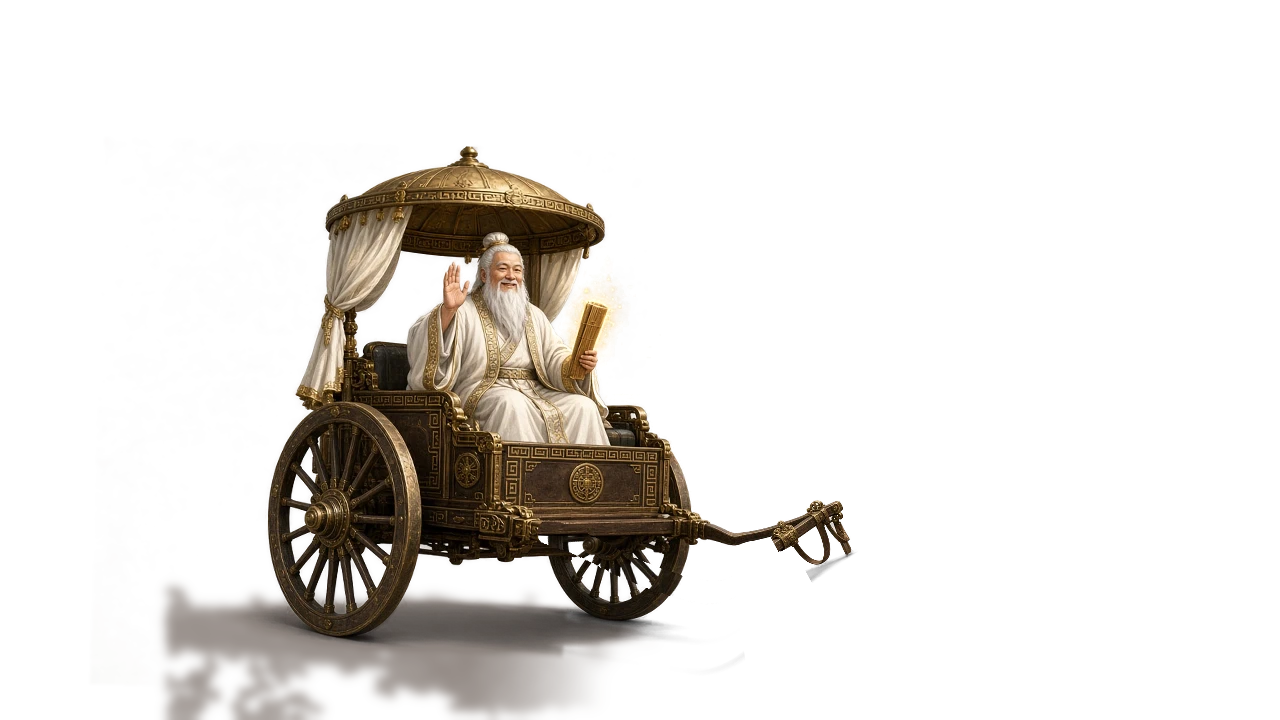
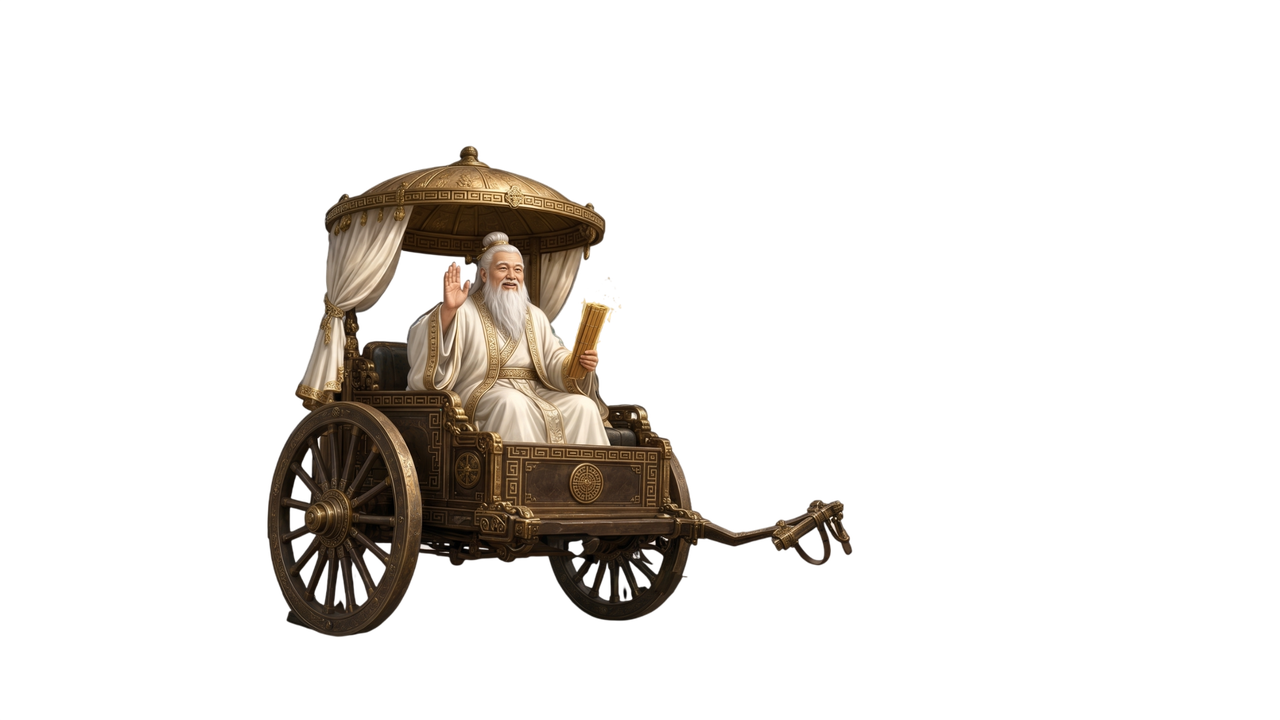
v1.3.25: pause edge + enter fade + drawer paper495 + lian/kong/lin char

Changed region(s): [[0.125, 0.2139, 0.6875, 1.0]]

diff --git a/src/index.css b/src/index.css
@@ -319,15 +319,24 @@
         }
         .shake-active { animation: global-shake 0.3s cubic-bezier(.36,.07,.19,.97) both; }
 
-        /* 暫停頁與入陣小視窗共用的全頁模糊半透明遮罩 */
+        /* 暫停頁與入陣小視窗共用的全頁遮罩
+         * pause-overlay-edge-r1：原 rgba(10,10,10,0.95)+backdrop-filter 在 #root letterbox scale／
+         * 次像素緣會透出底層（戰鬥底區 --app-bg 宣紙色／場景），左右成 ≈1px 微線。
+         * 改實色 #0a0a0a，並 inset:-2px 蓋過 fringe（#root overflow:hidden 裁齊外緣）；
+         * 入陣窗同因同修（Tailwind inset-0 以 !important 蓋過）。未動 Boss／一源／HERO。 */
         .pause-overlay, .enter-modal-overlay {
-            background: rgba(10, 10, 10, 0.95); /* 0.75 → 0.95：底下的題目／文字幾乎看不清 */
+            background: #0a0a0a;
             -webkit-backdrop-filter: blur(24px); /* 先寫 -webkit-：寫在後面時建置只保留它，Chrome 模糊失效 */
             backdrop-filter: blur(24px);
+            inset: -2px !important; /* 蓋 scale／backdrop 左右微縫；勿改戰鬥幾何常數 */
+        }
+        /* 遮罩開啟時 #root 深墊，letterbox 外緣 AA 對黑邊勿混出宣紙亮縫 */
+        #root:has(.pause-overlay),
+        #root:has(.enter-modal-overlay) {
+            background-color: #0a0a0a;
         }
         .pause-overlay {
             position: absolute;
-            inset: 0;
             z-index: 99999;
             display: flex;
             flex-direction: column;
@@ -930,11 +939,7 @@
             /* 自中心外擴：p=1→inset 50%（全遮）；p=0→inset 0（全露）；禁改 width／scaleX */
             clip-path: inset(0 calc(var(--scroll-p, 1) * 50%) 0 calc(var(--scroll-p, 1) * 50%));
         }
-        /* :active 合上閃現：軸併攏＋畫心全遮 */
-        .home-cta:active .home-cta-scroll { --scroll-p: 1; }
-        .home-cta:active .home-cta-axle-left { transform: translateX(532.954545%); }
-        .home-cta:active .home-cta-axle-right { transform: translateX(-532.954545%); }
-        .home-cta:active .home-cta-paper { clip-path: inset(0 50% 0 50%); }
+        /* :active 勿覆寫 --scroll-p／軸／clip／label（點入陣開窗時展開態會被強制合上閃跳） */
         .home-cta-label {
             /* r8/r9: 「入陣」水平＋光學垂直置中（cy_up≈6；無紙底 backing） */
             position: absolute; inset: 0; z-index: 3;
@@ -951,7 +956,7 @@
             opacity: calc(1 - var(--scroll-p, 1));
             transition: none; /* 跟 --scroll-p 同鐘，無另跑 opacity 緩動 */
         }
-        .home-cta:active .home-cta-label { opacity: 0; } /* 合上態無紙面字 */
+        /* 保留輕微按下回饋；勿改卷軸幾何 */
         .home-cta:hover { filter: brightness(1.06); }
         .home-cta:active { transform: scale(.98); }
         .home-cta:focus-visible { outline: 3px solid var(--paper); outline-offset: 2px; filter: brightness(1.1); border-radius: 8px; }
@@ -1036,8 +1041,8 @@
         .home-dungeon {
             --bar-h: 52px;
             --drawer-min-rows: 4;
-            /* align-chrome-greenbar：抽屜頂（peek 分界）＝戰鬥綠線頂 Y=495；peek-h＝100%−(495−zone) */
-            --peek-h: calc(100% - (495px - var(--hud-vnext-zone-h)));
+            /* home-drawer-top-green-r1：可見紙緣＝綠線495；rect鎖493.5（frost頂→不透明紙≈+1.5）；禁信宣紙左右亮帶≈450 */
+            --peek-h: calc(100% - (493.5px - var(--hud-vnext-zone-h)));
             --scroll-p: 1; /* 進頁默認 open＝卷合上 */
             position: relative; height: 100%; overflow: hidden;
             /* ≈smoothstep；時長 ≡ scroll-unroll-ref-r2 1.60s */
@@ -1050,11 +1055,11 @@
         /* 可選 N=6：data-min-rows="6" → bar+22+(H−bar−56)/2（舊最低） */
         .home-dungeon[data-min-rows="6"] {
             --drawer-min-rows: 6;
-            --peek-h: calc(100% - (495px - var(--hud-vnext-zone-h)));
+            --peek-h: calc(100% - (493.5px - var(--hud-vnext-zone-h)));
         }
         .home-dungeon[data-min-rows="4"] {
             --drawer-min-rows: 4;
-            --peek-h: calc(100% - (495px - var(--hud-vnext-zone-h)));
+            --peek-h: calc(100% - (493.5px - var(--hud-vnext-zone-h)));
         }
         /* 英雄區下緣＝抽屜上緣（peek／open 皆貼 peek 線；不再有 closed＝只露 bar） */
         .home-hero-slot { position: absolute; left: 0; right: 0; top: 0; bottom: var(--peek-h); transition: bottom .48s cubic-bezier(.22,1,.36,1); }
@@ -1249,27 +1254,34 @@ html[data-cinematic="1"] .btl-saber,
 html[data-cinematic="1"] .btl-saber-float,
 html[data-cinematic="1"] .btl-saber-idle { animation-play-state: paused !important; }
 /* ── 入陣無縫轉場（src/lib/enterTransition.ts）──
-   戰鬥頁已在主頁底下掛好（背景／人物與主頁預覽同一位置），主頁只把 UI 滑走：
-   頂欄上滑出畫面、抽屜與底部導覽下滑出畫面（ease-in），篇名列／入陣鈕隨抽屜淡出下移；
+   戰鬥頁已在主頁底下掛好（背景／人物與主頁預覽同一位置）。兩段時序：
+   ① 先淡出主頁場景底（山水／gyro／hero-bg／羽化／火星）露出底下戰鬥場景；
+   ② 完成後才錯開滑走頂欄／篇名／入陣／抽屜／底欄 HUD。
    主頁底色改透明，被滑開的區域直接露出下面的戰鬥畫面（不閃白／米色）。 */
 .enter-busy { pointer-events: none !important; }
 .enter-exit, .enter-exit > *, .enter-exit .home-dungeon, .enter-exit main, .enter-exit .home-hero { background: transparent !important; background-color: transparent !important; }
-/* 錯開滑出（總長 --ee-dur＝920ms）：頂欄上滑 → 篇名列 → 入陣 → 抽屜 → 底部導覽下滑，每組延遲 --ee-step、各自長 --ee-item */
+/* 段① 場景淡出（--ee-scene；禁一進 enter-exit 就 visibility:hidden） */
 .enter-exit { --ee-ease: cubic-bezier(.55, 0, .8, .25); }
-.enter-exit .home-bar-top { animation: eeUp var(--ee-item, 520ms) var(--ee-ease) 0ms both; }
-.enter-exit .home-hero > .relative.z-10 > :not(.home-cta) { animation: eeFadeDown var(--ee-item, 520ms) var(--ee-ease) var(--ee-step, 100ms) both; }
-.enter-exit .home-hero > .relative.z-10 > .home-cta { animation: eeFadeDown var(--ee-item, 520ms) var(--ee-ease) calc(2 * var(--ee-step, 100ms)) both; }
-.enter-exit :is(.home-drawer, .home-drawer-chev) { animation: eeDown var(--ee-item, 520ms) var(--ee-ease) calc(3 * var(--ee-step, 100ms)) both; }
-.enter-exit .home-bar-bottom { animation: eeDown var(--ee-item, 520ms) var(--ee-ease) calc(4 * var(--ee-step, 100ms)) both; }
-.enter-exit :is(.home-scene-feather, .home-embers) { animation: eeFade var(--ee-dur, 920ms) ease-in forwards; }
-/* 主頁場景（背景／人物／飛劍）在滑出開始時（仍在選擇小視窗的模糊遮罩底下）換成下面同位置、同動畫進度的戰鬥場景 */
-:is(.enter-exit, .enter-exit-reduced) .home-hero :is(.home-gyro-layer, .home-hero-bg) { visibility: hidden; }
+.enter-exit .home-hero :is(.home-shanshui, .home-gyro-layer, .home-hero-bg),
+.enter-exit :is(.home-scene-feather, .home-embers) {
+  animation: eeFade var(--ee-scene, 400ms) ease-in both;
+}
+/* 段② HUD 錯開滑出：delay＝場景淡出時長；總 HUD 窗＝--ee-dur（920ms） */
+.enter-exit .home-bar-top { animation: eeUp var(--ee-item, 520ms) var(--ee-ease) var(--ee-scene, 400ms) both; }
+.enter-exit .home-hero > .relative.z-10 > :not(.home-cta) { animation: eeFadeDown var(--ee-item, 520ms) var(--ee-ease) calc(var(--ee-scene, 400ms) + var(--ee-step, 100ms)) both; }
+.enter-exit .home-hero > .relative.z-10 > .home-cta { animation: eeFadeDown var(--ee-item, 520ms) var(--ee-ease) calc(var(--ee-scene, 400ms) + 2 * var(--ee-step, 100ms)) both; }
+.enter-exit :is(.home-drawer, .home-drawer-chev) { animation: eeDown var(--ee-item, 520ms) var(--ee-ease) calc(var(--ee-scene, 400ms) + 3 * var(--ee-step, 100ms)) both; }
+.enter-exit .home-bar-bottom { animation: eeDown var(--ee-item, 520ms) var(--ee-ease) calc(var(--ee-scene, 400ms) + 4 * var(--ee-step, 100ms)) both; }
 @keyframes eeUp { to { translate: 0 calc(-100% - 8px); } }
 @keyframes eeDown { to { translate: 0 calc(100% + 40px); } }
 @keyframes eeFadeDown { to { translate: 0 56px; opacity: 0; } }
 @keyframes eeFade { to { opacity: 0; } }
-/* 減少動態：不滑動，主頁整層淡出（下面即相同場景的戰鬥畫面） */
-.enter-exit-reduced { animation: eeFade var(--ee-dur, 300ms) linear forwards; }
+/* 減少動態：仍先場景後 HUD；時長縮短 */
+.enter-exit-reduced .home-hero :is(.home-shanshui, .home-gyro-layer, .home-hero-bg),
+.enter-exit-reduced :is(.home-scene-feather, .home-embers) {
+  animation: eeFade var(--ee-scene, 150ms) ease-in both;
+}
+.enter-exit-reduced { animation: eeFade var(--ee-dur, 300ms) linear var(--ee-scene, 150ms) both; }
 
 /* 入陣小視窗開著：主頁預覽動畫（呼吸、飛劍、佩刀浮動、火星…）原地暫停，取消後由同一位置繼續；陀螺儀另以 data-enter-freeze 凍結 */
 html[data-home-pause="1"] .home-hero, html[data-home-pause="1"] .home-hero * { animation-play-state: paused !important; }

diff --git a/App.tsx b/App.tsx
@@ -35,7 +35,7 @@ import BootLoadingMask from './components/BootLoadingMask';
 import AudioManager, { AudioManagerHandle, applyVolumeToTracks } from './components/AudioManager';
 import { watchAuthState, signInWithGoogle, signOutUser, enterGuestMode, exitGuestMode, AuthState, canEnterGame, watchSurnameState, watchSurnameEditor, setSurnameEditorOpen, SurnameState, applyAuthPersistence, recordLevelClear, deductUserStamina, refundUserStamina, clearStaminaRefundable } from './src/lib/firebase';
 import { useBattleRecorder } from './src/lib/useBattleRecorder';
-import { ENTER_EXIT_ITEM_MS, ENTER_EXIT_MS, ENTER_EXIT_STAGGER_MS, ENTER_REDUCED_FADE_MS, HomeSceneBox, measureHomeScene, preloadBattleImages, prefersReducedMotion, setEnterFreeze, setHomePause, syncHeroAnimations } from './src/lib/enterTransition';
+import { ENTER_EXIT_ITEM_MS, ENTER_EXIT_MS, ENTER_EXIT_STAGGER_MS, ENTER_REDUCED_FADE_MS, ENTER_REDUCED_SCENE_FADE_MS, ENTER_SCENE_FADE_MS, enterExitTotalMs, HomeSceneBox, measureHomeScene, preloadBattleImages, prefersReducedMotion, setEnterFreeze, setHomePause, syncHeroAnimations } from './src/lib/enterTransition';
 import EnterModeModal from './components/EnterModeModal';
 import StaminaModal from './components/StaminaModal';
 import { StaminaAttemptGuard } from './src/lib/stamina';
@@ -1120,7 +1120,7 @@ const App: React.FC = () => {
         if (cancelled) return;
         // 主頁動畫進度（呼吸、飛劍路徑／浮動）原樣接到戰鬥頁，之後同一 timeline 同速前進
         syncHeroAnimations(appRootRef.current?.querySelector('.home-hero') ?? null, battleClipRef.current);
-        // 主頁場景此刻已換成同位置的戰鬥場景（主頁場景隱藏），解除暫停好讓主頁 UI 的錯開滑出動畫播放
+        // 戰鬥已掛好並對齊相位；解除暫停，進入 exit：先場景淡出再 HUD 滑走
         setHomePause(false);
         setEnterPhase('exit');
       });
@@ -1137,7 +1137,7 @@ const App: React.FC = () => {
       const raf = requestAnimationFrame(() => {
         const anims = document.getAnimations().filter(an => names.has((an as Animation & { animationName?: string }).animationName ?? ''));
         const all = Promise.all(anims.map(an => an.finished.catch(() => undefined)));
-        const cap = new Promise(r => setTimeout(r, (enterReduced ? ENTER_REDUCED_FADE_MS : ENTER_EXIT_MS) + 600));
+        const cap = new Promise(r => setTimeout(r, enterExitTotalMs(enterReduced) + 600));
         Promise.race([all, cap]).then(() => { if (!cancelled) setEnterPhase('done'); });
       });
       return () => { cancelled = true; cancelAnimationFrame(raf); };
@@ -1253,7 +1253,7 @@ const App: React.FC = () => {
 
       {isAuthorized && (
       <div className={`absolute inset-0 transition-opacity ${enterPhase !== 'idle' ? 'duration-0' : 'duration-700'} ${showMenuScreen ? 'z-[500] opacity-100 pointer-events-auto' : 'z-0 opacity-0 pointer-events-none'}${enterPhase !== 'idle' ? ' enter-busy' : ''}${enterPhase === 'exit' ? (enterReduced ? ' enter-exit-reduced' : ' enter-exit') : ''}`}
-        style={enterPhase === 'exit' ? { '--ee-dur': `${enterReduced ? ENTER_REDUCED_FADE_MS : ENTER_EXIT_MS}ms`, '--ee-item': `${ENTER_EXIT_ITEM_MS}ms`, '--ee-step': `${ENTER_EXIT_STAGGER_MS}ms` } as React.CSSProperties : undefined}>
+        style={enterPhase === 'exit' ? { '--ee-dur': `${enterReduced ? ENTER_REDUCED_FADE_MS : ENTER_EXIT_MS}ms`, '--ee-item': `${ENTER_EXIT_ITEM_MS}ms`, '--ee-step': `${ENTER_EXIT_STAGGER_MS}ms`, '--ee-scene': `${enterReduced ? ENTER_REDUCED_SCENE_FADE_MS : ENTER_SCENE_FADE_MS}ms` } as React.CSSProperties : undefined}>
         <Suspense fallback={<SoftFallback />}>
         <MenuScreen
           levels={LEVELS_DATA}

diff --git a/src/lib/enterTransition.ts b/src/lib/enterTransition.ts
@@ -4,22 +4,33 @@
  * - 按下入陣：跳出小視窗選「深入不毛／驀然回首」（同時開始讀題庫、預載並解碼戰鬥所需圖片與程式碼）；
  * - 深入不毛：凍結主頁陀螺儀視差（保留當下位移），量測主頁場景，戰鬥頁在主頁底下掛好（同一場景），
  *   並把主頁的動畫進度（呼吸、飛劍路徑／浮動）原樣接到戰鬥頁（syncHeroAnimations），
- *   之後頂欄上滑出畫面、抽屜與底部導覽下滑出畫面（translateY，ease-in），篇名列與入陣鈕隨抽屜淡出下移；
- *   滑出完成即撤下主頁（下面已是相同畫面），再依原順序播戰鬥開場（金線 → 名字 → HP 條 → 題目／鍵盤）。
- * - 減少動態：不滑動，主頁整層淡出（下面即戰鬥畫面，不會閃白）。
+ *   之後兩段：① 先淡出主頁場景底（山水／gyro／hero-bg）露出戰鬥；② 再頂欄上滑、抽屜與底欄下滑，
+ *   篇名列與入陣鈕隨之淡出下移；完成即撤下主頁，再依原順序播戰鬥開場。
+ * - 減少動態：仍先場景後 HUD；時長縮短（不改順序）。
  */
 import type { LevelConfig } from '../../types';
 import { HERO_SCENES } from '../../components/home/heroScene';
 import { portraitKey } from '../../data/portraits';
 
-/** 主頁 UI 滑出的總時長（v1.3.3 的 460ms × 2）：頂欄 → 篇名列 → 入陣 → 抽屜 → 底部導覽依序錯開 */
+/** 段①：主頁場景底（山水／gyro／hero-bg／羽化／火星）opacity 淡出時長 */
+export const ENTER_SCENE_FADE_MS = 400;
+/** 段②：主頁 UI 滑出的總時長（頂欄 → 篇名列 → 入陣 → 抽屜 → 底部導覽依序錯開；delay＝場景淡出） */
 export const ENTER_EXIT_MS = 920;
 /** 錯開的間隔（5 組，最後一組在 4 × 間隔後開始） */
 export const ENTER_EXIT_STAGGER_MS = 100;
-/** 每一組自己的滑出時長：最後一組結束＝ENTER_EXIT_MS */
+/** 每一組自己的滑出時長：最後一組結束＝ENTER_EXIT_MS（自 HUD 開始算） */
 export const ENTER_EXIT_ITEM_MS = ENTER_EXIT_MS - 4 * ENTER_EXIT_STAGGER_MS;
-/** 減少動態：主頁整層淡出時長 */
+/** 減少動態：場景淡出時長（仍先於 HUD） */
+export const ENTER_REDUCED_SCENE_FADE_MS = 150;
+/** 減少動態：主頁整層淡出時長（接在場景淡出之後） */
 export const ENTER_REDUCED_FADE_MS = 300;
+
+/** 入陣 exit 總時長（場景淡出 + HUD／整層淡出） */
+export function enterExitTotalMs(reduced: boolean): number {
+  return reduced
+    ? ENTER_REDUCED_SCENE_FADE_MS + ENTER_REDUCED_FADE_MS
+    : ENTER_SCENE_FADE_MS + ENTER_EXIT_MS;
+}
 
 export function prefersReducedMotion(): boolean {
   return typeof window !== 'undefined' && (window.matchMedia?.('(prefers-reduced-motion: reduce)').matches ?? false);

diff --git a/components/tabs/drawerMath.ts b/components/tabs/drawerMath.ts
@@ -1,14 +1,20 @@
-/** align-chrome-greenbar-r1：抽屜頂＝戰鬥血條綠線頂 Y=495（css px＠390×844） */
+/** 概念綠線（戰鬥血條頂）Y=495 css＠390×844；可見抽屜紙緣對齊此值 */
 export const CHROME_GREEN_TOP_Y = 495;
+/**
+ * rect 鎖：frost／alpha 頂緣至可見不透明紙約 +1.5px，
+ * peek 以 493.5 鎖 getBoundingClientRect → 像素紙緣≈495。
+ * 中途誤測≈450＝英雄區宣紙左右亮帶，非抽屜紙緣。
+ */
+export const CHROME_DRAWER_RECT_TOP_Y = 493.5;
 /** ≡ --hud-vnext-zone-h／HOME_TOP_BAR_H（無 sat） */
 export const CHROME_ZONE_H = 121.8;
 
 /**
- * peek 高（px）：使 dungeon 內抽屜頂緣落在視口 Y=495。
- * peekH = h − (GREEN − zone)；minRows／舊 bar+14+(H−bar−56)/3 由綠線鎖取代。
+ * peek 高（px）：使可見抽屜紙緣落在視口 Y=495（rect 頂＝493.5）。
+ * peekH = h − (RECT − zone)。
  */
 export const drawerPeekH = (h: number, _bar?: number, _minRows?: number) => {
-  return h - (CHROME_GREEN_TOP_Y - CHROME_ZONE_H);
+  return h - (CHROME_DRAWER_RECT_TOP_Y - CHROME_ZONE_H);
 };
 
 /** 拖曳 y→進度（歷史／unit）；卷軸改走獨立 --scroll-p。0＝peek；1＝open。 */

diff --git a/components/tabs/drawerStops.test.ts b/components/tabs/drawerStops.test.ts
@@ -1,14 +1,15 @@
 import { describe, it, expect } from 'vitest';
-import { drawerPeekH, progressFromY, CHROME_GREEN_TOP_Y, CHROME_ZONE_H } from './drawerMath';
+import { drawerPeekH, progressFromY, CHROME_GREEN_TOP_Y, CHROME_DRAWER_RECT_TOP_Y, CHROME_ZONE_H } from './drawerMath';
 
 const PEEK_MIN_ROWS = 4;
 
-describe('drawerPeekH (green-align Y=495)', () => {
-  it('390×844 D≈646.2 → peekH≈273（抽屜頂＝495）', () => {
+describe('drawerPeekH (green-align visual paper Y=495)', () => {
+  it('390×844 D≈646.2 → peekH≈275.5（rect頂＝493.5→可見紙緣≈495）', () => {
     const H = 844 - CHROME_ZONE_H - 76; // dungeon h
     const peek = drawerPeekH(H, 52, PEEK_MIN_ROWS);
-    expect(peek).toBeCloseTo(H - (CHROME_GREEN_TOP_Y - CHROME_ZONE_H), 5);
-    expect(CHROME_ZONE_H + (H - peek)).toBeCloseTo(CHROME_GREEN_TOP_Y, 5);
+    expect(peek).toBeCloseTo(H - (CHROME_DRAWER_RECT_TOP_Y - CHROME_ZONE_H), 5);
+    expect(CHROME_ZONE_H + (H - peek)).toBeCloseTo(CHROME_DRAWER_RECT_TOP_Y, 5);
+    expect(CHROME_GREEN_TOP_Y).toBe(495);
   });
 
   it('minRows ignored under green lock（N=4／6 同 peek）', () => {
